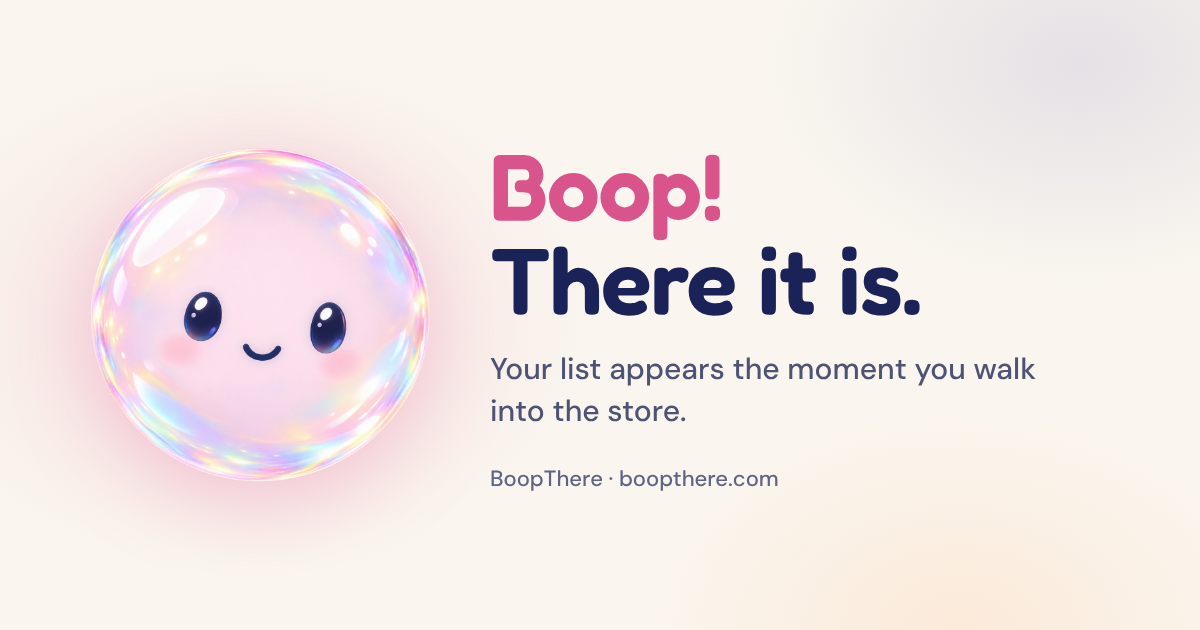
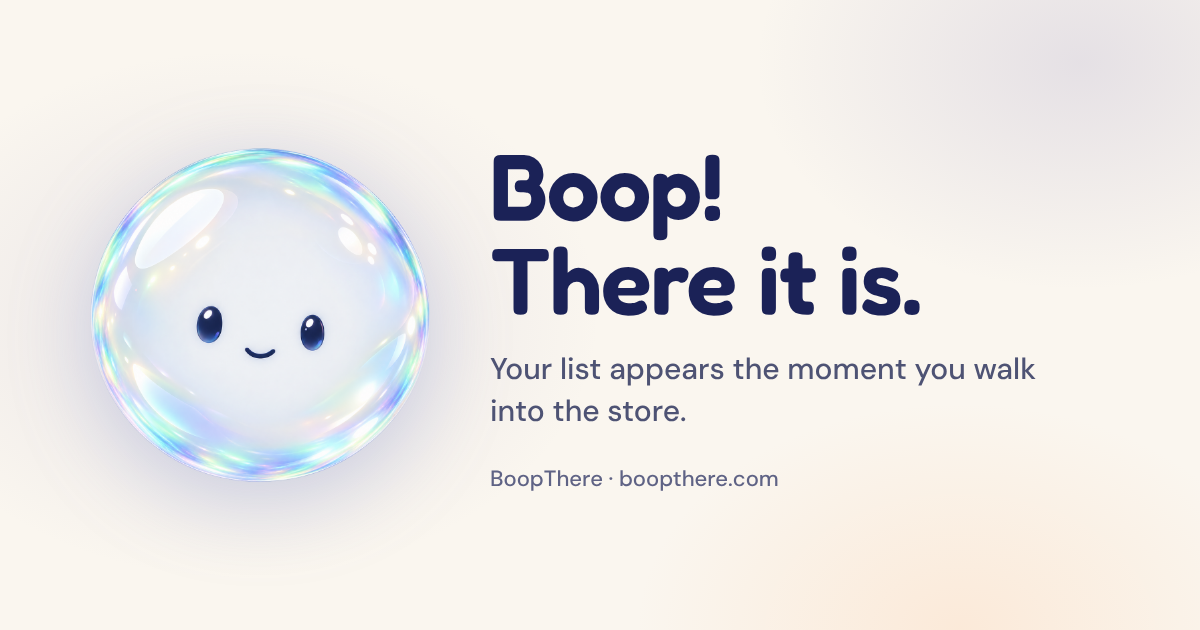
Meet clear-glass Boop
New iridescent clear bubble with five faces: neutral (default), knowing
and wry (idle glances every few seconds), oh (hover), happy (tap).
Logo, app icon, Lock Screen icon, favicon, touch icon, OG image and the
four time-of-day icons regenerated. Old pink assets removed; new files
named -v3 / boop2- so image caches can't serve the old ones.

Claude-Session: https://claude.ai/code/session_01JCJ9Cii79kSKS6b9oMPbWV

Changed region(s): [[0.0617, 0.2111, 0.37, 0.7841], [0.4008, 0.2413, 0.6167, 0.3921]]

diff --git a/app/site/chrome.tsx b/app/site/chrome.tsx
@@ -11,8 +11,8 @@ import { useEffect, useRef, useState, useSyncExternalStore, type FormEvent } fro
 import { APP_IS_LIVE, APP_STORE_URL, NOTIFY_EVENT, openNotify } from "./launch"
 
 export { APP_STORE_URL }
-export const BRAND_ICON = "/assets/brand/boop/boop-app-icon-256-v2.png"
-export const BRAND_WORDMARK = "/assets/brand/boop/boopthere-wordmark-v2.png"
+export const BRAND_ICON = "/assets/brand/boop/boop-app-icon-256-v3.png"
+export const BRAND_WORDMARK = "/assets/brand/boop/boopthere-wordmark-v3.png"
 
 export function useReveal() {
   useEffect(() => {
@@ -276,17 +276,15 @@ export function TopNav({ home = false }: { home?: boolean }) {
 /* ── Close ─────────────────────────────────────────────────────── */
 
 
-/* ── Boop, alive ─────────────────────────────────────────────────────
-   Five drawn faces stacked and swapped in place, so he blinks, winks, gasps
-   and sparkles without a video. `mood` overrides the face (hover, tap);
-   otherwise he idles on a smile with a blink every few seconds and the odd
-   wink. All timers stay off under prefers-reduced-motion. */
+export type BoopMood = "neutral" | "knowing" | "wry" | "oh" | "happy"
+const BOOP_FACES: BoopMood[] = ["neutral", "knowing", "wry", "oh", "happy"]
 
-export type BoopMood = "smile" | "sleepy" | "wink" | "surprised" | "excited"
-const BOOP_FACES: BoopMood[] = ["smile", "sleepy", "wink", "surprised", "excited"]
-
+/* Boop, alive: five drawn faces stacked and swapped in place. `mood`
+   overrides (hover, tap); otherwise he idles on a gentle smile and, every
+   few seconds, gives a knowing look, now and then a raised-eyebrow smirk.
+   Timers stay off under prefers-reduced-motion. */
 export function BoopFace({ mood, className = "" }: { mood?: BoopMood; className?: string }) {
-  const [idle, setIdle] = useState<BoopMood>("smile")
+  const [idle, setIdle] = useState<BoopMood>("neutral")
 
   useEffect(() => {
     if (typeof window === "undefined") return
@@ -298,14 +296,14 @@ export function BoopFace({ mood, className = "" }: { mood?: BoopMood; className?
       t = setTimeout(() => {
         if (!alive) return
         n += 1
-        const face: BoopMood = n % 4 === 0 ? "wink" : "sleepy"
+        const face: BoopMood = n % 3 === 0 ? "wry" : "knowing"
         setIdle(face)
         t = setTimeout(() => {
           if (!alive) return
-          setIdle("smile")
+          setIdle("neutral")
           loop()
-        }, face === "wink" ? 900 : 150)
-      }, 2400 + Math.random() * 2600)
+        }, 1300)
+      }, 4200 + Math.random() * 3200)
     }
     loop()
     return () => { alive = false; clearTimeout(t) }
@@ -315,10 +313,9 @@ export function BoopFace({ mood, className = "" }: { mood?: BoopMood; className?
   return (
     <span className={`boopFace ${className}`} aria-hidden="true">
       {BOOP_FACES.map((f) => (
-        /* Plain <img>: five tiny stacked frames that must swap instantly,
-           so they skip the optimizer and are all loaded up front. */
+        /* Plain <img>: five small stacked frames that must swap instantly. */
         // eslint-disable-next-line @next/next/no-img-element
-        <img key={f} src={`/assets/brand/boop/boop-${f}.webp`} alt="" width={320} height={320} className={f === face ? "on" : ""} decoding="async" />
+        <img key={f} src={`/assets/brand/boop/boop2-${f}.webp`} alt="" width={320} height={320} className={f === face ? "on" : ""} decoding="async" />
       ))}
     </span>
   )
@@ -332,7 +329,7 @@ export function FinalCTA() {
       <div className="finalSky" aria-hidden="true" />
       <div className="reveal finalInner">
         <div className="finalMascot" aria-hidden="true">
-<BoopFace className="finalBoopImg" mood={inView ? undefined : "sleepy"} />
+<BoopFace className="finalBoopImg" mood={inView ? undefined : "neutral"} />
         </div>
         <div className={`finalArrival ${inView ? "finalArrivalIn" : ""}`} aria-hidden="true">
           <span className="finalArrivalRing" />
@@ -374,7 +371,7 @@ export function SiteFooter() {
     <footer className="footer">
       <div className="footerTop">
         <div className="footerBrand">
-          <Image src="/assets/brand/boop/boopthere-wordmark-cream-v2.png" alt="BoopThere" className="footerLogo" width={1072} height={216} />
+          <Image src="/assets/brand/boop/boopthere-wordmark-cream-v3.png" alt="BoopThere" className="footerLogo" width={1072} height={216} />
           <p className="footerTag">Boop! There it is.</p>
         </div>
         <nav className="footerNav" aria-label="Footer">

diff --git a/app/layout.tsx b/app/layout.tsx
@@ -71,7 +71,7 @@ export const metadata: Metadata = {
     locale: "en_US",
     images: [
       {
-        url: "/boopthere-og.png?v=2",
+        url: "/boopthere-og.png?v=3",
         width: 1200,
         height: 630,
         alt: "BoopThere - location reminders for iPhone",
@@ -82,14 +82,14 @@ export const metadata: Metadata = {
     card: "summary_large_image",
     title: "BoopThere | Boop! There it is. Location reminders for iPhone",
     description: DEFAULT_DESCRIPTION,
-    images: ["/boopthere-og.png?v=2"],
+    images: ["/boopthere-og.png?v=3"],
   },
   icons: {
     icon: [
-      { url: "/favicon.ico?v=7", sizes: "64x64" },
-      { url: "/favicon.png?v=7", sizes: "64x64", type: "image/png" },
+      { url: "/favicon.ico?v=8", sizes: "64x64" },
+      { url: "/favicon.png?v=8", sizes: "64x64", type: "image/png" },
     ],
-    apple: [{ url: "/apple-touch-icon.png?v=7", sizes: "180x180", type: "image/png" }],
+    apple: [{ url: "/apple-touch-icon.png?v=8", sizes: "180x180", type: "image/png" }],
   },
   category: "Productivity",
   appleWebApp: {
@@ -110,8 +110,8 @@ const organizationJsonLd = {
   alternateName: ["Boop There", "Near"],
   legalName: "Rise-X, Inc.",
   url: SITE_URL,
-  logo: `${SITE_URL}/assets/brand/boop/boop-app-icon-1024-v2.png`,
-  image: `${SITE_URL}/boopthere-og.png?v=2`,
+  logo: `${SITE_URL}/assets/brand/boop/boop-app-icon-1024-v3.png`,
+  image: `${SITE_URL}/boopthere-og.png?v=3`,
   email: "hello@nearesttask.com",
   description: "Location reminders for iPhone. Boop! There it is.",
   brand: {
@@ -132,7 +132,7 @@ const mobileAppJsonLd = {
   /* Telling search engines the app can be installed at a URL that 404s is
      worse than saying nothing. These come back when the listing is live. */
   ...(APP_IS_LIVE ? { downloadUrl: APP_STORE_URL, installUrl: APP_STORE_URL } : {}),
-  image: `${SITE_URL}/boopthere-og.png?v=2`,
+  image: `${SITE_URL}/boopthere-og.png?v=3`,
   isAccessibleForFree: true,
   description: DEFAULT_DESCRIPTION,
   publisher: {
@@ -198,9 +198,9 @@ export default function RootLayout({
   return (
     <html lang="en" className={`${dmSans.variable} ${fredoka.variable} ${interTight.variable}`}>
       <head>
-        <link rel="icon" href="/favicon.ico?v=7" sizes="64x64" />
-        <link rel="icon" href="/favicon.png?v=7" type="image/png" sizes="64x64" />
-        <link rel="apple-touch-icon" href="/apple-touch-icon.png?v=7" sizes="180x180" />
+        <link rel="icon" href="/favicon.ico?v=8" sizes="64x64" />
+        <link rel="icon" href="/favicon.png?v=8" type="image/png" sizes="64x64" />
+        <link rel="apple-touch-icon" href="/apple-touch-icon.png?v=8" sizes="180x180" />
         <meta name="theme-color" content="#FAF6EF" />
         <script
           type="application/ld+json"

diff --git a/app/HomePageClient.tsx b/app/HomePageClient.tsx
@@ -274,7 +274,7 @@ const BoopBuddy = forwardRef<HTMLButtonElement, { onBoop: () => void }>(function
       }}
     >
       <span className={`boopBody ${hops > 0 ? "boopJump" : ""}`} key={`j${hops}`}>
-        <BoopFace className="boopImg" mood={thrilled ? "wink" : hover ? "surprised" : undefined} />
+        <BoopFace className="boopImg" mood={thrilled ? "happy" : hover ? "oh" : undefined} />
       </span>
       <span className="boopShadow" aria-hidden="true" />
       <span className="boopCaption" key={`c${hops}-${hover && hops === 0 ? "h" : ""}`}>
@@ -845,7 +845,7 @@ function BenefitScene({ id }: { id: (typeof benefits)[number]["id"] }) {
         <div className="bsLock">
           <div className="bsLockTime">5:12</div>
           <div className="bsNotif">
-            <span className="bsNotifIcon"><BoopFace mood="smile" /></span>
+            <span className="bsNotifIcon"><BoopFace mood="neutral" /></span>
             <span className="bsNotifText">
               <span className="bsNotifApp">BoopThere &middot; now</span>
               <span className="bsNotifTitle">You&rsquo;re at Kroger</span>
@@ -963,7 +963,7 @@ function WhoSection() {
             <li className="whoCard" key={p.who} data-stagger>
               <span className="whoLabel">{p.who}</span>
               <div className="whoNotif" aria-hidden="true">
-                <span className="whoNotifIcon"><BoopFace mood="smile" /></span>
+                <span className="whoNotifIcon"><BoopFace mood="neutral" /></span>
                 <span className="whoNotifText">
                   <span className="whoNotifTitle">{p.place}</span>
                   <span className="whoNotifBody">{p.body}</span>

diff --git a/app/site/chrome.css b/app/site/chrome.css
@@ -4375,7 +4375,7 @@ button.tierCta, button.priceNavCta {
   width: 100%;
   transform-origin: 50% 100%;
   animation: boopBounce 1.6s cubic-bezier(.3,.7,.4,1) infinite;
-  filter: drop-shadow(0 14px 22px rgba(229, 103, 154, .30)) drop-shadow(0 0 18px rgba(155, 148, 194, .25));
+  filter: drop-shadow(0 14px 22px rgba(110, 130, 200, .26)) drop-shadow(0 0 18px rgba(155, 148, 194, .22));
   transition: transform .3s cubic-bezier(.3,.7,.4,1.5);
 }
 .boopImg {
@@ -4737,7 +4737,7 @@ button.tierCta, button.priceNavCta {
 /* Boop: still, pearly, reacts only to events */
 .boopBody { animation: none; }
 .boopShadow { animation: none; }
-.finalMascot .finalBoopImg { animation: none; filter: drop-shadow(0 12px 26px rgba(217, 120, 158, .35)); }
+.finalMascot .finalBoopImg { animation: none; filter: drop-shadow(0 12px 26px rgba(134, 168, 220, .35)); }
 .boopCaption { font-family: var(--font-display); font-weight: 600; letter-spacing: -0.01em; }
 
 /* Card and section titles in the new headline face */

diff --git a/app/features/page.tsx b/app/features/page.tsx
@@ -102,10 +102,10 @@ const mealNotes = [
 ]
 
 const ICON_VARIANTS = [
-  { name: "Dawn", src: "/assets/brand/boop/boop-icon-dawn-1024-v2.png" },
-  { name: "Day", src: "/assets/brand/boop/boop-icon-day-1024-v2.png" },
-  { name: "Dusk", src: "/assets/brand/boop/boop-icon-dusk-1024-v2.png" },
-  { name: "Night", src: "/assets/brand/boop/boop-icon-night-1024-v2.png" },
+  { name: "Dawn", src: "/assets/brand/boop/boop-icon-dawn-1024-v3.png" },
+  { name: "Day", src: "/assets/brand/boop/boop-icon-day-1024-v3.png" },
+  { name: "Dusk", src: "/assets/brand/boop/boop-icon-dusk-1024-v3.png" },
+  { name: "Night", src: "/assets/brand/boop/boop-icon-night-1024-v3.png" },
 ] as const
 
 /* The arrival this page's own example produces. The capture section hears

diff --git a/app/features/layout.tsx b/app/features/layout.tsx
@@ -15,7 +15,7 @@ export const metadata: Metadata = {
     type: "website",
     images: [
       {
-        url: "/boopthere-og.png?v=2",
+        url: "/boopthere-og.png?v=3",
         width: 1200,
         height: 630,
         alt: "Everything BoopThere does - location reminders, shared lists and Meal Plan",
@@ -27,7 +27,7 @@ export const metadata: Metadata = {
     title: "Everything BoopThere does | BoopThere",
     description:
       "Capture, placement, arrival - plus shared household lists, Meal Plan, Apple Watch and Siri. Everything BoopThere does, and nothing that asks you to organize it.",
-    images: ["/boopthere-og.png?v=2"],
+    images: ["/boopthere-og.png?v=3"],
   },
 }
 

diff --git a/app/pricing/layout.tsx b/app/pricing/layout.tsx
@@ -15,7 +15,7 @@ export const metadata: Metadata = {
     type: "website",
     images: [
       {
-        url: "/boopthere-og.png?v=2",
+        url: "/boopthere-og.png?v=3",
         width: 1200,
         height: 630,
         alt: "BoopThere pricing for Free and Pro plans",
@@ -27,7 +27,7 @@ export const metadata: Metadata = {
     title: "Pricing | BoopThere",
     description:
       "BoopThere's location reminders are free, always, and so is the grocery list. Pro adds unlimited AI meal plans, predictive restocks, and goal breakdowns. $12.99 a month or $109 a year.",
-    images: ["/boopthere-og.png?v=2"],
+    images: ["/boopthere-og.png?v=3"],
   },
 }
 

diff --git a/app/join/[code]/page.tsx b/app/join/[code]/page.tsx
@@ -5,7 +5,7 @@ import Image from "next/image"
 import { useParams } from "next/navigation"
 
 import { APP_IS_LIVE, APP_STORE_URL } from "../../site/launch"
-const BRAND_ICON = "/assets/brand/boop/boop-app-icon-256-v2.png"
+const BRAND_ICON = "/assets/brand/boop/boop-app-icon-256-v3.png"
 
 export default function JoinPage() {
   const params = useParams()

diff --git a/app/pricing/page.tsx b/app/pricing/page.tsx
@@ -8,7 +8,7 @@ import Link from "next/link"
 import { AppShot, DownloadCta } from "../site/chrome"
 import { featuresFor } from "../site/features"
 
-const BRAND_WORDMARK = "/assets/brand/boop/boopthere-wordmark-v2.png"
+const BRAND_WORDMARK = "/assets/brand/boop/boopthere-wordmark-v3.png"
 
 type Billing = "annual" | "monthly"
 

diff --git a/app/privacy/page.tsx b/app/privacy/page.tsx
@@ -5,7 +5,7 @@ import "./privacy.css"
 import Link from "next/link"
 import Image from "next/image"
 
-const BRAND_WORDMARK = "/assets/brand/boop/boopthere-wordmark-v2.png"
+const BRAND_WORDMARK = "/assets/brand/boop/boopthere-wordmark-v3.png"
 
 export default function PrivacyPage() {
   return (

diff --git a/app/support/page.tsx b/app/support/page.tsx
@@ -5,7 +5,7 @@ import "./support.css"
 import Link from "next/link"
 import Image from "next/image"
 
-const BRAND_WORDMARK = "/assets/brand/boop/boopthere-wordmark-v2.png"
+const BRAND_WORDMARK = "/assets/brand/boop/boopthere-wordmark-v3.png"
 
 export default function SupportPage() {
   return (

diff --git a/app/terms/page.tsx b/app/terms/page.tsx
@@ -5,7 +5,7 @@ import "./terms.css"
 import Link from "next/link"
 import Image from "next/image"
 
-const BRAND_WORDMARK = "/assets/brand/boop/boopthere-wordmark-v2.png"
+const BRAND_WORDMARK = "/assets/brand/boop/boopthere-wordmark-v3.png"
 
 export default function TermsPage() {
   return (
